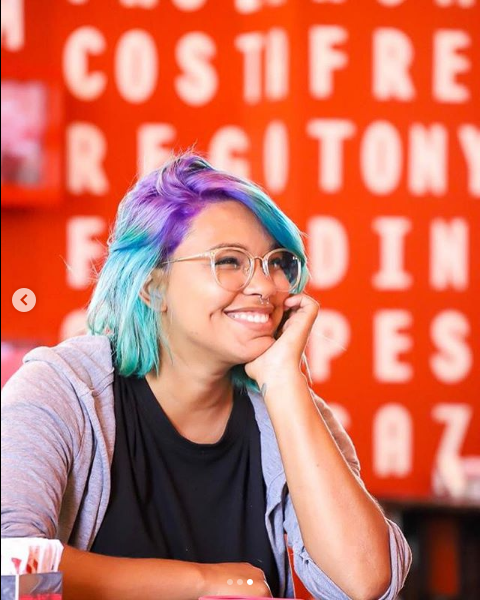
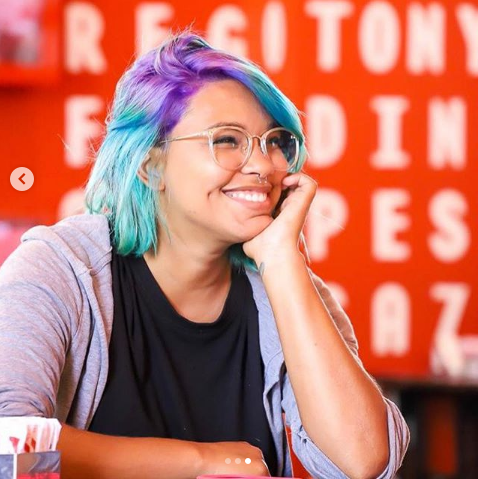
ajustar tamanho do carrossel

diff --git a/index.html b/index.html
@@ -1,64 +1,74 @@
 <!DOCTYPE html>
 <html lang="en">
+
 <head>
-    <meta charset="UTF-8">
-    <meta name="viewport" content="width=device-width, initial-scale=1.0">
-    <link rel="stylesheet" href="./styles/bootstrap.min.css">
-    <link rel="stylesheet" type="text/css" href="./styles/style.css">
-    <title>Document</title>
+  <meta charset="UTF-8">
+  <meta name="viewport" content="width=device-width, initial-scale=1.0">
+  <link rel="stylesheet" href="./styles/bootstrap.min.css">
+  <link rel="stylesheet" type="text/css" href="./styles/style.css">
+  <title>Document</title>
 </head>
+
 <body>
-    <nav class="navbar navbar-expand-lg navbar-light bg-roxo">
-      <div class="container">
-        <a class="navbar-brand text-white" href="https://reprograma.com.br/" target="_blank">{Reprograma}</a>
-        <button class="navbar-toggler" type="button" data-toggle="collapse" data-target="#menudesktop" aria-controls="menudesktop" aria-expanded="false" aria-label="Alterna navegação">
-          <span class="navbar-toggler-icon"></span>
-        </button>
-      
-        <div class="collapse navbar-collapse  justify-content-end" id="menudesktop">
-          <ul class="navbar-nav">
-            <li class="nav-item">
-              <a class="nav-link text-white" href="#">Habilidades</a>
-            </li>
-            <li class="nav-item">
-              <a class="nav-link text-white" href="#">Sobre</a>
-            </li>         
-            <li class="nav-item">
-              <a class="nav-link text-white" href="#">Portifólios</a>
-            </li>
-          </ul>         
+  <nav class="navbar navbar-expand-lg navbar-light bg-roxo">
+    <div class="container">
+      <a class="navbar-brand text-white" href="https://reprograma.com.br/" target="_blank">{Reprograma}</a>
+      <button class="navbar-toggler" type="button" data-toggle="collapse" data-target="#menudesktop"
+        aria-controls="menudesktop" aria-expanded="false" aria-label="Alterna navegação">
+        <span class="navbar-toggler-icon"></span>
+      </button>
+
+      <div class="collapse navbar-collapse  justify-content-end" id="menudesktop">
+        <ul class="navbar-nav">
+          <li class="nav-item">
+            <a class="nav-link text-white" href="#">Habilidades</a>
+          </li>
+          <li class="nav-item">
+            <a class="nav-link text-white" href="#">Sobre</a>
+          </li>
+          <li class="nav-item">
+            <a class="nav-link text-white" href="#">Portifólio</a>
+          </li>
+        </ul>
+      </div>
+    </div>
+  </nav>
+  <header>
+
+    <div id="carouselExampleControls" class="carousel slide" data-ride="carousel">
+      <div class="carousel-inner">
+        <div class="carousel-item active">
+          <img class="d-block w-100 img-carousel"
+            src="assets/Screenshot_2020-05-05 Sara Fogo ( sarafogo) • Fotos e vídeos do Instagram.png"
+            alt="Primeiro Slide">
+        </div>
+        <div class="carousel-item">
+          <img class="d-block w-100 img-carousel"
+            src="assets/Screenshot_2020-05-05 Sara Fogo ( sarafogo) • Fotos e vídeos do Instagram(1).png"
+            alt="Segundo Slide">
         </div>
       </div>
-      </nav>
+      <a class="carousel-control-prev" href="#carouselExampleControls" role="button" data-slide="prev">
+        <span class="carousel-control-prev-icon" aria-hidden="true"></span>
+        <span class="sr-only">Anterior</span>
+      </a>
+      <a class="carousel-control-next" href="#carouselExampleControls" role="button" data-slide="next">
+        <span class="carousel-control-next-icon" aria-hidden="true"></span>
+        <span class="sr-only">Próximo</span>
+      </a>
+    </div>
 
-      <div id="carouselExampleControls" class="carousel slide slides" data-ride="carousel">
-        <div class="carousel-inner">
-          <div class="carousel-item active">
-            <img class="d-block w-100" src="assets/Screenshot_2020-05-05 Sara Fogo ( sarafogo) • Fotos e vídeos do Instagram.png" alt="Primeiro Slide">
-          </div>
-          <div class="carousel-item">
-            <img class="d-block w-100" src="assets/Screenshot_2020-05-05 Sara Fogo ( sarafogo) • Fotos e vídeos do Instagram(1).png" alt="Segundo Slide">
-          </div>
-        </div>
-        <a class="carousel-control-prev" href="#carouselExampleControls" role="button" data-slide="prev">
-          <span class="carousel-control-prev-icon" aria-hidden="true"></span>
-          <span class="sr-only">Anterior</span>
-        </a>
-        <a class="carousel-control-next" href="#carouselExampleControls" role="button" data-slide="next">
-          <span class="carousel-control-next-icon" aria-hidden="true"></span>
-          <span class="sr-only">Próximo</span>
-        </a>
-      </div>
-
-    
-  
-
-  
+  </header>
 
 
 
-    <script src="./js/jquery-3.4.1.min.js"></script>
-    <script src="./js/bootstrap.min.js"></script>
-    <script src="https://kit.fontawesome.com/4fe8d55b33.js" crossorigin="anonymous"></script>
+
+
+
+
+  <script src="./js/jquery-3.4.1.min.js"></script>
+  <script src="./js/bootstrap.min.js"></script>
+  <script src="https://kit.fontawesome.com/4fe8d55b33.js" crossorigin="anonymous"></script>
 </body>
+
 </html>

diff --git a/styles/style.css b/styles/style.css
@@ -1,11 +1,15 @@
 .bg-roxo{
     background-color: #7E459B;
+    height: 80px;
 }
 
 a:hover{
   font-weight: bold;
 }
 
-.slides{
-  width: 250px;
+
+.img-carousel{
+  object-fit: cover;
+  object-position: 0 32%;
+  height: 400px;
 }
